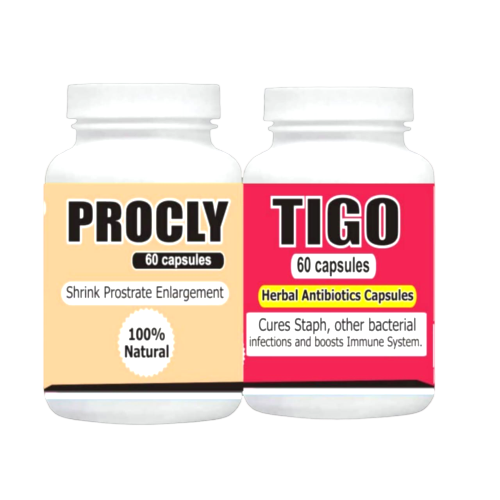
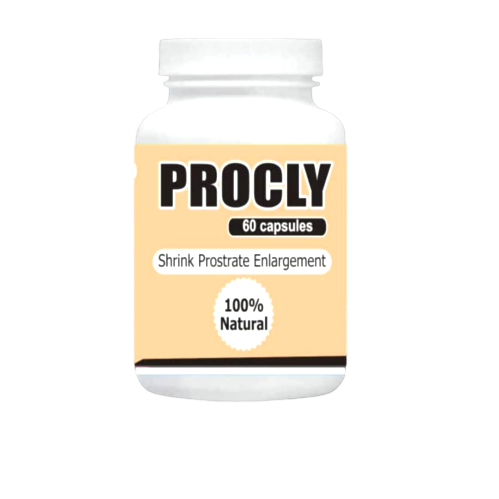
products

diff --git a/src/data/products.ts b/src/data/products.ts
@@ -18,95 +18,311 @@ export interface Product {
 // You will expand this with all your 33+ products!
 export const products: Product[] = [
   {
-    id: 'atco-001',
-    name: 'ATCO Herbal Blend',
+    id: 'Ashcord',
+    name: 'Ashcord',
     category: 'Herbal Supplement',
-    shortDescription: 'Boosts energy and focus naturally, keeping you revitalized throughout the day.',
+    shortDescription: 'Ashcord treat, prevent stroke and best for general body maintenance',
     price: 15000, // Example price in NGN
-    imageUrl: '/images/products/atco.png', // Make sure you place your product images in the 'public/images/products/' folder
+    imageUrl: '/ashcord.png', // Make sure you place your product images in the 'public/images/products/' folder
     benefits: ['Increased Energy', 'Improved Focus', 'Natural Vitality', 'Reduced Fatigue'],
     usage: 'Take 1 spoon (5g) twice daily with water, preferably before meals.',
     ingredients: ['Premium Ginseng Extract', 'Organic Moringa Leaf', 'Pure Ashwagandha Root'],
   },
   {
-    id: 'calvit-tea-002',
-    name: 'CALVIT Relaxation Tea',
+    id: 'Atco',
+    name: 'Atco',
     category: 'Herbal Tea',
-    shortDescription: 'A soothing blend designed to help you unwind and promote peaceful, restful sleep.',
+    shortDescription: 'Atco treat arthritis, back pain, waist pain and knee pain..',
     price: 12000,
-    imageUrl: '/images/products/calvit.png',
+    imageUrl: '/atco.png',
     benefits: ['Stress Relief', 'Improved Sleep Quality', 'Calming Effect', 'Muscle Relaxation'],
     usage: 'Brew one teabag in 200ml hot water for 5-7 minutes. Drink 30 minutes before bedtime.',
     ingredients: ['Chamomile Flowers', 'Lavender Buds', 'Lemon Balm Leaves', 'Valerian Root'],
   },
   {
     // Changed ID to be unique
-    id: 'k19-immunity-003a', 
-    name: 'K19 Immune Booster (Original)',
+    id: 'beatchol', 
+    name: 'Beatchol',
     category: 'Herbal Elixir',
-    shortDescription: 'Formulated to strengthen your body\'s natural defenses and enhance overall immunity.',
+    shortDescription: 'Beatchol treats and lowers high cholesterol and gives better digestion',
     price: 18000,
-    imageUrl: '/images/products/k19.png',
+    imageUrl: '/beatchol.png',
     benefits: ['Enhanced Immunity', 'Antioxidant Support', 'Cellular Protection', 'Faster Recovery'],
     usage: 'Take 15ml (one tablespoon) daily, preferably in the morning, directly or mixed with juice.',
     ingredients: ['Echinacea Extract', 'Fresh Ginger Root', 'Organic Turmeric', 'Black Elderberry'],
   },
   {
     // Changed ID to be unique
-    id: 'usroll-skin-004a', 
-    name: 'USROLL Skin Elixir (Original)',
+    id: 'bloodcare', 
+    name: 'Bloodcare',
     category: 'Beauty & Wellness',
-    shortDescription: 'A powerful elixir that nourishes your skin from within, giving you a healthy, radiant glow.',
+    shortDescription: 'Bloodkia circulates blood in the body and lowers blood fat..',
     price: 20000,
-    imageUrl: '/images/products/usroll.png',
+    imageUrl: '/bloodcare.png',
     benefits: ['Radiant Skin', 'Anti-aging Properties', 'Detoxification', 'Improved Skin Elasticity'],
     usage: 'Take 10ml daily, can be mixed with your favorite smoothie or juice.',
     ingredients: ['Pure Aloe Vera Gel', 'Hydrolyzed Collagen Peptides', 'Vitamin C', 'Hyaluronic Acid'],
   },
   {
     // Changed ID to be unique
-    id: 'k19-immunity-003b', 
-    name: 'K19 Immune Booster (Extra Strength)', // Renamed slightly for clarity
+    id: 'calvit', 
+    name: 'Calvit', // Renamed slightly for clarity
     category: 'Herbal Elixir',
-    shortDescription: 'An advanced formula to strengthen your body\'s natural defenses with extra potency.',
+    shortDescription: 'Calvitt gives strong bone and vitamins A, C, and K.',
     price: 19500, // Slightly different price for variation
-    imageUrl: '/images/products/k19.png', // Reusing image, but ideally unique
+    imageUrl: '/calvit.png', // Reusing image, but ideally unique
     benefits: ['Maximized Immunity', 'Strong Antioxidant Support', 'Advanced Cellular Protection'],
     usage: 'Take 15ml (one tablespoon) daily, preferably in the morning, directly or mixed with juice.',
     ingredients: ['Echinacea Extract', 'Fresh Ginger Root', 'Organic Turmeric', 'Black Elderberry', 'Astragalus'],
   },
   {
     // Changed ID to be unique
-    id: 'usroll-skin-004b', 
-    name: 'USROLL Skin Elixir (Advanced)', // Renamed slightly for clarity
+    id: 'diaberoll', 
+    name: 'Diaberoll', // Renamed slightly for clarity
     category: 'Beauty & Wellness',
-    shortDescription: 'Next-level elixir for unparalleled skin nourishment and a truly radiant, youthful glow.',
+    shortDescription: 'Diaroll tea reduce sugar level and treat diabetes',
     price: 22000, // Slightly different price for variation
-    imageUrl: '/images/products/usroll.png', // Reusing image, but ideally unique
+    imageUrl: '/diaberoll.png', // Reusing image, but ideally unique
     benefits: ['Exceptional Radiance', 'Potent Anti-aging', 'Deep Detoxification', 'Enhanced Elasticity'],
     usage: 'Take 10ml daily, can be mixed with your favorite smoothie or juice.',
     ingredients: ['Pure Aloe Vera Gel', 'Hydrolyzed Collagen Peptides', 'Vitamin C', 'Hyaluronic Acid', 'Biotin'],
   },
   {
     // Changed ID to be unique
-    id: 'k19-immunity-003c', 
-    name: 'K19 Immune Booster (Kid-Friendly)', // Renamed slightly for clarity
-    category: 'Kids Herbal Elixir',
-    shortDescription: 'A delicious and safe immune booster for children, supporting their health naturally.',
+    id: 'Eyekia', 
+    name: 'Eyekia', // Renamed slightly for clarity
+    category: 'Eyes care Herbal Elixir',
+    shortDescription: 'Eyekia treat and prevent glaucoma, cataracts and other eye problems.',
     price: 16000, // Different price
-    imageUrl: '/images/products/k19.png', // Reusing image, but ideally unique
+    imageUrl: '/eyekia.png', // Reusing image, but ideally unique
     benefits: ['Kids Immunity Support', 'Gentle Formula', 'Delicious Taste'],
     usage: 'For children 2-12 years, take 5ml once daily.',
     ingredients: ['Elderberry', 'Vitamin C', 'Zinc', 'Natural Fruit Flavors'],
   },
   {
     // Changed ID to be unique
-    id: 'usroll-skin-004c', 
-    name: 'USROLL Skin Elixir (Sensitive Skin)', // Renamed slightly for clarity
+    id: 'feb', 
+    name: 'Feb', // Renamed slightly for clarity
     category: 'Beauty & Wellness',
-    shortDescription: 'Gentle formula for sensitive skin, promoting hydration and natural glow without irritation.',
+    shortDescription: 'FEB treat weak erection and ejaculation and restores your sexual power.',
     price: 21000, // Different price
-    imageUrl: '/images/products/usroll.png', // Reusing image, but ideally unique
+    imageUrl: '/feb.png', // Reusing image, but ideally unique
+    benefits: ['Hypoallergenic', 'Soothing Hydration', 'Natural Radiance'],
+    usage: 'Take 10ml daily, ideal for those with sensitive digestive systems.',
+    ingredients: ['Pure Aloe Vera Gel', 'Chamomile Extract', 'Hyaluronic Acid', 'Green Tea Polyphenols'],
+  },
+  {
+    // Changed ID to be unique
+    id: 'fibshrink', 
+    name: 'Fibshrink', // Renamed slightly for clarity
+    category: 'Beauty & Wellness',
+    shortDescription: 'FIBSHRINK treat and shrink fibroids in women..',
+    price: 21000, // Different price
+    imageUrl: '/fibshrink.png', // Reusing image, but ideally unique
+    benefits: ['Hypoallergenic', 'Soothing Hydration', 'Natural Radiance'],
+    usage: 'Take 10ml daily, ideal for those with sensitive digestive systems.',
+    ingredients: ['Pure Aloe Vera Gel', 'Chamomile Extract', 'Hyaluronic Acid', 'Green Tea Polyphenols'],
+  },
+  {
+    // Changed ID to be unique
+    id: 'flow', 
+    name: 'Flow', // Renamed slightly for clarity
+    category: 'Beauty & Wellness',
+    shortDescription: 'FIBSHRINK treat and shrink fibroids in women..',
+    price: 21000, // Different price
+    imageUrl: '/flow.png', // Reusing image, but ideally unique
+    benefits: ['Hypoallergenic', 'Soothing Hydration', 'Natural Radiance'],
+    usage: 'Take 10ml daily, ideal for those with sensitive digestive systems.',
+    ingredients: ['Pure Aloe Vera Gel', 'Chamomile Extract', 'Hyaluronic Acid', 'Green Tea Polyphenols'],
+  },
+  {
+    // Changed ID to be unique
+    id: 'hbalance', 
+    name: 'Hbalance', // Renamed slightly for clarity
+    category: 'Beauty & Wellness',
+    shortDescription: 'Hbalance, balances female hormones to conceive and their general well-being.',
+    price: 21000, // Different price
+    imageUrl: '/hbalance.png', // Reusing image, but ideally unique
+    benefits: ['Hypoallergenic', 'Soothing Hydration', 'Natural Radiance'],
+    usage: 'Take 10ml daily, ideal for those with sensitive digestive systems.',
+    ingredients: ['Pure Aloe Vera Gel', 'Chamomile Extract', 'Hyaluronic Acid', 'Green Tea Polyphenols'],
+  },
+  {
+    // Changed ID to be unique
+    id: 'K10', 
+    name: 'K10', // Renamed slightly for clarity
+    category: 'Beauty & Wellness',
+    shortDescription: 'Hbalance, balances female hormones to conceive and their general well-being.',
+    price: 21000, // Different price
+    imageUrl: '/K10.png', // Reusing image, but ideally unique
+    benefits: ['Hypoallergenic', 'Soothing Hydration', 'Natural Radiance'],
+    usage: 'Take 10ml daily, ideal for those with sensitive digestive systems.',
+    ingredients: ['Pure Aloe Vera Gel', 'Chamomile Extract', 'Hyaluronic Acid', 'Green Tea Polyphenols'],
+  },
+  {
+    // Changed ID to be unique
+    id: 'kia4small', 
+    name: 'Kia4', // Renamed slightly for clarity
+    category: 'Beauty & Wellness',
+    shortDescription: 'kia4 small size.',
+    price: 21000, // Different price
+    imageUrl: '/kia4.png', // Reusing image, but ideally unique
+    benefits: ['Hypoallergenic', 'Soothing Hydration', 'Natural Radiance'],
+    usage: 'Take 10ml daily, ideal for those with sensitive digestive systems.',
+    ingredients: ['Pure Aloe Vera Gel', 'Chamomile Extract', 'Hyaluronic Acid', 'Green Tea Polyphenols'],
+  },
+  {
+    // Changed ID to be unique
+    id: 'kingsize', 
+    name: 'Kingsize', // Renamed slightly for clarity
+    category: 'Beauty & Wellness',
+    shortDescription: 'Kingsize, best for penis enlargement.',
+    price: 21000, // Different price
+    imageUrl: '/kingsize.png', // Reusing image, but ideally unique
+    benefits: ['Hypoallergenic', 'Soothing Hydration', 'Natural Radiance'],
+    usage: 'Take 10ml daily, ideal for those with sensitive digestive systems.',
+    ingredients: ['Pure Aloe Vera Gel', 'Chamomile Extract', 'Hyaluronic Acid', 'Green Tea Polyphenols'],
+  },
+  {
+    // Changed ID to be unique
+    id: 'livgo', 
+    name: 'Livgo', // Renamed slightly for clarity
+    category: 'Beauty & Wellness',
+    shortDescription: 'Livgo treat and cure liver disease and lowers fatty liver..',
+    price: 21000, // Different price
+    imageUrl: '/livgo.png', // Reusing image, but ideally unique
+    benefits: ['Hypoallergenic', 'Soothing Hydration', 'Natural Radiance'],
+    usage: 'Take 10ml daily, ideal for those with sensitive digestive systems.',
+    ingredients: ['Pure Aloe Vera Gel', 'Chamomile Extract', 'Hyaluronic Acid', 'Green Tea Polyphenols'],
+  },
+  {
+    // Changed ID to be unique
+    id: 'mtop', 
+    name: 'mtop', // Renamed slightly for clarity
+    category: 'Beauty & Wellness',
+    shortDescription: '.',
+    price: 21000, // Different price
+    imageUrl: '/mtop.png', // Reusing image, but ideally unique
+    benefits: ['Hypoallergenic', 'Soothing Hydration', 'Natural Radiance'],
+    usage: 'Take 10ml daily, ideal for those with sensitive digestive systems.',
+    ingredients: ['Pure Aloe Vera Gel', 'Chamomile Extract', 'Hyaluronic Acid', 'Green Tea Polyphenols'],
+  },
+  {
+    // Changed ID to be unique
+    id: 'procly', 
+    name: 'Procly', // Renamed slightly for clarity
+    category: 'Beauty & Wellness',
+    shortDescription: ' ',
+    price: 21000, // Different price
+    imageUrl: '/procly.png', // Reusing image, but ideally unique
+    benefits: ['Hypoallergenic', 'Soothing Hydration', 'Natural Radiance'],
+    usage: 'Take 10ml daily, ideal for those with sensitive digestive systems.',
+    ingredients: ['Pure Aloe Vera Gel', 'Chamomile Extract', 'Hyaluronic Acid', 'Green Tea Polyphenols'],
+  },
+  {
+    // Changed ID to be unique
+    id: 'procly&Tigo', 
+    name: 'Procly and Tigo', // Renamed slightly for clarity
+    category: 'Beauty & Wellness',
+    shortDescription: 'Procly and Tigo is joined to shrink prostate enlargement and cancer',
+    price: 21000, // Different price
+    imageUrl: '/proclytigo.png', // Reusing image, but ideally unique
+    benefits: ['Hypoallergenic', 'Soothing Hydration', 'Natural Radiance'],
+    usage: 'Take 10ml daily, ideal for those with sensitive digestive systems.',
+    ingredients: ['Pure Aloe Vera Gel', 'Chamomile Extract', 'Hyaluronic Acid', 'Green Tea Polyphenols'],
+  },
+  {
+    // Changed ID to be unique
+    id: 'proskiatigo', 
+    name: 'Proskia and Tigo', // Renamed slightly for clarity
+    category: 'Beauty & Wellness',
+    shortDescription: 'Proskia and Tigo is joined to shrink prostate enlargement and cancer.',
+    price: 21000, // Different price
+    imageUrl: '/proskiatigo.png', // Reusing image, but ideally unique
+    benefits: ['Hypoallergenic', 'Soothing Hydration', 'Natural Radiance'],
+    usage: 'Take 10ml daily, ideal for those with sensitive digestive systems.',
+    ingredients: ['Pure Aloe Vera Gel', 'Chamomile Extract', 'Hyaluronic Acid', 'Green Tea Polyphenols'],
+  },
+  {
+    // Changed ID to be unique
+    id: 'prosotigo', 
+    name: 'Proso and Tigo', // Renamed slightly for clarity
+    category: 'Beauty & Wellness',
+    shortDescription: 'Proso and Tigo is joined to shrink prostate enlargement and cancer.',
+    price: 21000, // Different price
+    imageUrl: '/prosotigo.png', // Reusing image, but ideally unique
+    benefits: ['Hypoallergenic', 'Soothing Hydration', 'Natural Radiance'],
+    usage: 'Take 10ml daily, ideal for those with sensitive digestive systems.',
+    ingredients: ['Pure Aloe Vera Gel', 'Chamomile Extract', 'Hyaluronic Acid', 'Green Tea Polyphenols'],
+  },
+  {
+    // Changed ID to be unique
+    id: 'solook', 
+    name: 'Solook', // Renamed slightly for clarity
+    category: 'Beauty & Wellness',
+    shortDescription: 'Solook, anti aging and increases collagen in the body.',
+    price: 21000, // Different price
+    imageUrl: '/solook.png', // Reusing image, but ideally unique
+    benefits: ['Hypoallergenic', 'Soothing Hydration', 'Natural Radiance'],
+    usage: 'Take 10ml daily, ideal for those with sensitive digestive systems.',
+    ingredients: ['Pure Aloe Vera Gel', 'Chamomile Extract', 'Hyaluronic Acid', 'Green Tea Polyphenols'],
+  },
+  {
+    // Changed ID to be unique
+    id: 'tigosmall', 
+    name: 'Tigo 30 Capsules', // Renamed slightly for clarity
+    category: 'Beauty & Wellness',
+    shortDescription: 'Solook, anti aging and increases collagen in the body.',
+    price: 21000, // Different price
+    imageUrl: '/tigosmall.png', // Reusing image, but ideally unique
+    benefits: ['Hypoallergenic', 'Soothing Hydration', 'Natural Radiance'],
+    usage: 'Take 10ml daily, ideal for those with sensitive digestive systems.',
+    ingredients: ['Pure Aloe Vera Gel', 'Chamomile Extract', 'Hyaluronic Acid', 'Green Tea Polyphenols'],
+  },
+  {
+    // Changed ID to be unique
+    id: 'top9', 
+    name: 'Top9', // Renamed slightly for clarity
+    category: 'Beauty & Wellness',
+    shortDescription: 'Top9 treat and and cure weak erection and quick ejaculation. restores sexual power in men.',
+    price: 21000, // Different price
+    imageUrl: '/top9.png', // Reusing image, but ideally unique
+    benefits: ['Hypoallergenic', 'Soothing Hydration', 'Natural Radiance'],
+    usage: 'Take 10ml daily, ideal for those with sensitive digestive systems.',
+    ingredients: ['Pure Aloe Vera Gel', 'Chamomile Extract', 'Hyaluronic Acid', 'Green Tea Polyphenols'],
+  },
+  {
+    // Changed ID to be unique
+    id: 'tyle', 
+    name: 'Tyle', // Renamed slightly for clarity
+    category: 'Beauty & Wellness',
+    shortDescription: 'Tyle treat typhoid fever effectively.',
+    price: 21000, // Different price
+    imageUrl: '/tyle.png', // Reusing image, but ideally unique
+    benefits: ['Hypoallergenic', 'Soothing Hydration', 'Natural Radiance'],
+    usage: 'Take 10ml daily, ideal for those with sensitive digestive systems.',
+    ingredients: ['Pure Aloe Vera Gel', 'Chamomile Extract', 'Hyaluronic Acid', 'Green Tea Polyphenols'],
+  },
+  {
+    // Changed ID to be unique
+    id: 'usrol', 
+    name: 'usrol', // Renamed slightly for clarity
+    category: 'Beauty & Wellness',
+    shortDescription: 'Usroll treats and prevent all kinds of ulcers.',
+    price: 21000, // Different price
+    imageUrl: '/usrol.png', // Reusing image, but ideally unique
+    benefits: ['Hypoallergenic', 'Soothing Hydration', 'Natural Radiance'],
+    usage: 'Take 10ml daily, ideal for those with sensitive digestive systems.',
+    ingredients: ['Pure Aloe Vera Gel', 'Chamomile Extract', 'Hyaluronic Acid', 'Green Tea Polyphenols'],
+  },
+  {
+    // Changed ID to be unique
+    id: 'xp', 
+    name: 'XP', // Renamed slightly for clarity
+    category: 'Beauty & Wellness',
+    shortDescription: 'Usroll treats and prevent all kinds of ulcers.',
+    price: 21000, // Different price
+    imageUrl: '/xp.png', // Reusing image, but ideally unique
     benefits: ['Hypoallergenic', 'Soothing Hydration', 'Natural Radiance'],
     usage: 'Take 10ml daily, ideal for those with sensitive digestive systems.',
     ingredients: ['Pure Aloe Vera Gel', 'Chamomile Extract', 'Hyaluronic Acid', 'Green Tea Polyphenols'],

diff --git a/src/components/ProductCard.tsx b/src/components/ProductCard.tsx
@@ -5,10 +5,16 @@ import React, { useState } from 'react'; // Import useState for managing search 
 import Image from 'next/image';
 import Link from 'next/link';
 // Import the products data and interface from the data file
-import { products, Product } from '@/data/products'; 
+import { products, Product } from '@/data/products';
 
 // Component for a single product card (this remains unchanged)
 const ProductCard: React.FC<{ product: Product }> = ({ product }) => {
+  // Encode the WhatsApp message
+  const whatsappMessage = encodeURIComponent(
+    `Hello, I'm interested in ordering the product: ${product.name} (Price: ₦${product.price.toLocaleString()}). Could I get more details?`
+  );
+  const whatsappLink = `https://wa.me/+2348033913721?text=${whatsappMessage}`;
+
   return (
     <div className="bg-white rounded-lg shadow-lg overflow-hidden transition-transform duration-300 hover:scale-105 hover:shadow-2xl">
       {/* Product Image */}
@@ -30,12 +36,14 @@ const ProductCard: React.FC<{ product: Product }> = ({ product }) => {
         </p>
         <div className="flex justify-between items-center mb-4">
           <span className="text-green-800 text-xl font-bold">₦{product.price.toLocaleString()}</span>
-          {/* Link to a potential product detail page */}
-          <Link 
-            href={`/products/${product.id}`} // This assumes you'll create dynamic routes like /products/atco-001
+          {/* Link to WhatsApp for ordering */}
+          <Link
+            href={whatsappLink}
+            target="_blank" // Opens in a new tab
+            rel="noopener noreferrer" // Recommended for security when using target="_blank"
             className="bg-green-600 text-white font-bold py-2 px-4 rounded-full text-sm hover:bg-green-700 transition-colors duration-300"
           >
-            View Details
+            Order Now
           </Link>
         </div>
         {/* You could add a quick "Add to Cart" button here if desired */}
@@ -89,8 +97,8 @@ const ProductsPage: React.FC = () => {
         {/* Display products in a responsive grid */}
         {filteredProducts.length === 0 ? (
           <p className="text-center text-gray-600 text-xl">
-            {searchQuery 
-              ? `No products found matching "${searchQuery}".` 
+            {searchQuery
+              ? `No products found matching "${searchQuery}".`
               : 'No products available yet. Please check back soon or add more products to src/data/products.ts.'}
           </p>
         ) : (
